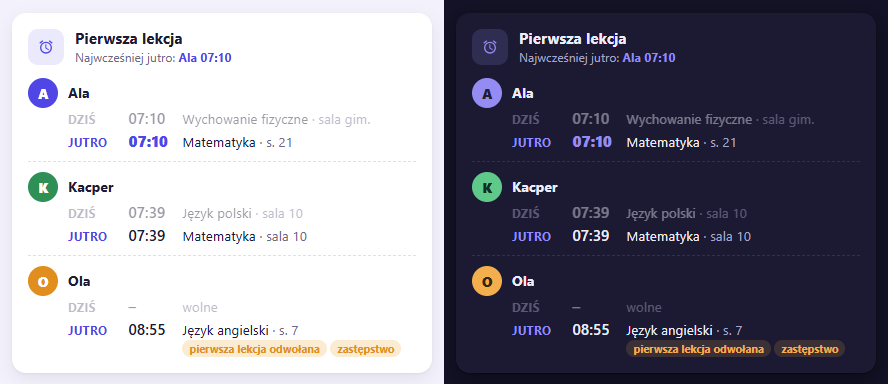
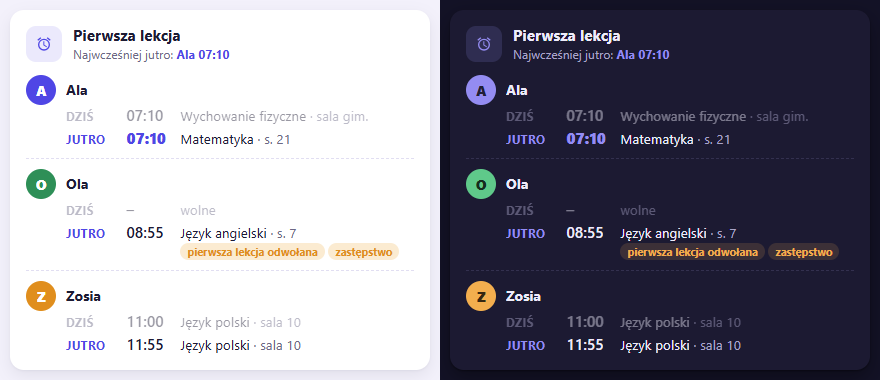
Remove real people's data from the dev harness and screenshots
The harness had been seeded with a real account's data (the student's
name, the school, teachers and real messages). All replaced with made-up
data; screenshots regenerated from it.

diff --git a/dev/index.html b/dev/index.html
@@ -336,17 +336,17 @@
     addEntity("sensor.weekly_summary", "weekly_summary", {
       status: "good",
       sections: {
-        grades: { status: "good", text: "W tym tygodniu doszły 4 oceny: 6 z geografii (sprawdzian, waga 3), 5 z biologii, 4- z chemii (kartkówka) i plus z edukacji zdrowotnej. Średnia ogólna wzrosła z 4,52 do 4,61, głównie dzięki szóstce z geografii.\n\nChemia (4,88) to jedyny przedmiot, w którym ostatnia ocena wypadła poniżej średniej. Przy jednej kartkówce to jeszcze nie trend, ale warto ją obserwować." },
-        attendance: { status: "caution", text: "34 z 35 lekcji obecny. Jedna nieobecność we wtorek na religii, jeszcze nieusprawiedliwiona. Spóźnień brak." },
+        grades: { status: "good", text: "W tym tygodniu doszły 4 oceny: 5 z historii (sprawdzian, waga 3), 4 z biologii, 3+ z fizyki (kartkówka) i plus z plastyki. Średnia ogólna wzrosła z 4,30 do 4,38, głównie dzięki piątce z historii.\n\nFizyka (4,10) to jedyny przedmiot, w którym ostatnia ocena wypadła poniżej średniej. Przy jednej kartkówce to jeszcze nie trend, ale warto ją obserwować." },
+        attendance: { status: "caution", text: "33 z 34 lekcji obecna. Jedna nieobecność w czwartek na muzyce, jeszcze nieusprawiedliwiona. Spóźnień brak." },
         behaviour: { status: "good", text: "Brak nowych uwag w tym tygodniu. 26 dni bez negatywnej uwagi i seria 5 ocen co najmniej dobrych z rzędu." },
-        next_week: { status: "ok", text: "Wtorek 7.10: sprawdzian z matematyki (działy 1-2). Środa 8.10: zadanie z chemii (s. 34). Czwartek 9.10: kartkówka z angielskiego. W piątek zastępstwo na WF." },
+        next_week: { status: "ok", text: "Wtorek 7.10: sprawdzian z matematyki (działy 1-2). Środa 8.10: zadanie z fizyki (s. 21). Czwartek 9.10: kartkówka z angielskiego. W piątek zastępstwo na WF." },
       },
       advice: [
-        "Usprawiedliwić nieobecność z wtorku (religia).",
+        "Usprawiedliwić nieobecność z czwartku (muzyka).",
         "W niedzielę przejrzeć działy 1-2 z matematyki przed wtorkiem.",
-        "Zapytać o kartkówkę z chemii: nauczycielka wskazała błędy w zapisie wzorów.",
+        "Zapytać o kartkówkę z fizyki: nauczyciel wskazał błędy w jednostkach.",
       ],
-      warning: "Nieobecność z wtorku (religia) jest wciąż nieusprawiedliwiona.",
+      warning: "Nieobecność z czwartku (muzyka) jest wciąż nieusprawiedliwiona.",
       summary: null,
       week_from: iso(new Date(today.getTime() - 6 * 86400000)),
       week_to: iso(today),
@@ -356,7 +356,7 @@
       generating: false,
       paused: false,
       error: null,
-    }, "Mocny tydzień z przyrody, chemia do podciągnięcia przed sprawdzianem z matematyki.");
+    }, "Mocny tydzień z historii, fizyka do podciągnięcia przed sprawdzianem z matematyki.");
     entities["button.weekly_summary_generate"] = { entity_id: "button.weekly_summary_generate", device_id: DEVICE_ID, platform: "librus_synergia", translation_key: "weekly_summary_generate" };
     states["button.weekly_summary_generate"] = { entity_id: "button.weekly_summary_generate", state: lastPolled, attributes: {} };
     addEntity("sensor.unread_announcements", "unread_announcements", {
@@ -373,8 +373,8 @@
     addEntity("sensor.unread_messages", "unread_messages", {
       mailbox_breakdown: { inbox: 1, notes: 0, alerts: 1, substitutions: 1, absences: 0, justifications: 1, trash: 0 },
       recent: [
-        { id: "186536", mailbox: "inbox", sender: "Marciszak Amelia", topic: "Zebranie z rodzicami", content: "Dzień dobry, serdecznie zapraszam na zebranie, które odbędzie się 9 września (środa)…", date: iso(new Date(today.getTime() - 2 * 86400000)), unread: true, has_attachment: false },
-        { id: "428360", mailbox: "inbox", sender: "Siwik Anna", topic: "Materiały informacyjne dotyczące najistotniejszych założeń Kompasu Jutra", content: "Szanowni Państwo, na prośbę Pani Minister Barbary Nowackiej przesyłam w załączeniu prezentację…", date: iso(new Date(today.getTime() - 3 * 86400000)), unread: false, has_attachment: true },
+        { id: "100001", mailbox: "inbox", sender: "Nowak Anna", topic: "Zebranie z rodzicami", content: "Dzień dobry, zapraszam na zebranie z rodzicami w przyszłą środę o 17:00…", date: iso(new Date(today.getTime() - 2 * 86400000)), unread: true, has_attachment: false },
+        { id: "100002", mailbox: "inbox", sender: "Zielińska Maria", topic: "Informacja dla rodziców", content: "Szanowni Państwo, w załączeniu przesyłam informację o organizacji roku szkolnego…", date: iso(new Date(today.getTime() - 3 * 86400000)), unread: false, has_attachment: true },
       ],
       substitutions_recent: [
         { id: "9001", mailbox: "substitutions", sender: "System zastępstw", topic: "Zmiana w planie lekcji", content: "Jutro (7 wrz) lekcja fizyki o 11:40 zostanie odwołana z powodu nieobecności nauczyciela…", date: iso(new Date(today.getTime() - 1 * 86400000)), unread: true, has_attachment: false },
@@ -402,26 +402,26 @@
       bellSlots.push({ start: s, end: e });
     }
     addEntity("sensor.school", "school", {
-      town: "Wrocław", street: "ul. Kłodzka", head_teacher: "Edyta Krajewska", email: "sekretariat@zsp21.wroc.pl",
+      town: "Przykładowo", street: "ul. Szkolna", head_teacher: "Ewa Wiśniewska", email: "sekretariat@example.edu.pl",
       bell_schedule: bellSchedule,
       // subject_teachers requires ha-librus-synergia 0.6.0+ - one subject
       // (Język niemiecki) has two teachers to demo the split-group case.
       subject_teachers: {
-        "Matematyka": ["Weronika Michałowska"],
-        "Język polski": ["Eliza Orman"],
+        "Matematyka": ["Joanna Lewandowska"],
+        "Język polski": ["Katarzyna Wójcik"],
         "Biologia": ["K. Nowak"],
-        "Historia": ["Justyna Bartczak"],
-        "Wychowanie fizyczne": ["Marek Włodarczyk"],
-        "Język niemiecki": ["Aneta Kędzierska", "Michalina Dyduch"],
+        "Historia": ["Agnieszka Kamińska"],
+        "Wychowanie fizyczne": ["Piotr Mazur"],
+        "Język niemiecki": ["Magdalena Zając", "Monika Szymańska"],
       },
-    }, "Zespół Szkolno-Przedszkolny nr 21");
+    }, "Szkoła Podstawowa nr 1");
     addEntity("sensor.current_lesson", "current_lesson", {
       lesson_no: 3, start: bellSchedule[2].start, end: bellSchedule[2].end, minutes_left: 20,
       teacher: "K. Nowak", classroom: "sala 15", is_substitution: false,
     }, "Biologia");
     addEntity("sensor.next_lesson", "next_lesson", {
       lesson_no: 4, start: bellSchedule[3].start, end: bellSchedule[3].end, minutes_until: 40,
-      date: iso(today), teacher: "A. Marciszak", classroom: "sala 22", is_substitution: false,
+      date: iso(today), teacher: "A. Nowak", classroom: "sala 22", is_substitution: false,
     }, "Język polski");
     addEntity("sensor.next_exam", "next_exam", {
       days_until: Math.round((tomorrowDay.getTime() - today.getTime()) / 86400000),
@@ -432,7 +432,7 @@
       ],
     }, tomorrowIso);
     addEntity("sensor.school_class", "school_class", {
-      homeroom_teacher: "Amelia Marciszak",
+      homeroom_teacher: "Anna Nowak",
       student_number: 25,
       school_year_start: iso(new Date(2026, 8, 1)),
       first_semester_end: iso(new Date(2027, 0, 31)),
@@ -441,7 +441,7 @@
     addEntity("sensor.homework_assignments", "homework_assignments", {
       recent: [
         { id: 101, topic: "Matematyka", text: "Zadania 1-5, strona 42 - ułamki dziesiętne.", due_date: tomorrowIso, date: iso(today), teacher: "Jan Kowalski" },
-        { id: 102, topic: "Język polski", text: "Wypracowanie: „Moje wakacje” (min. 150 słów).", due_date: iso(new Date(today.getTime() + 6 * 86400000)), date: iso(today), teacher: "Amelia Marciszak" },
+        { id: 102, topic: "Język polski", text: "Wypracowanie: „Moje wakacje” (min. 150 słów).", due_date: iso(new Date(today.getTime() + 6 * 86400000)), date: iso(today), teacher: "Anna Nowak" },
         { id: 103, topic: "Biologia", text: "Notatka o fotosyntezie.", due_date: iso(new Date(today.getTime() + 4 * 86400000)), date: iso(today), teacher: "K. Nowak" },
       ],
     }, 3);
@@ -617,7 +617,7 @@
       language: "pl",
       themes: { darkMode: false },
       devices: {
-        [DEVICE_ID]: { id: DEVICE_ID, name: "E-dziennik Kacper Zaniewicz", config_entries: ["dev1_entry"] },
+        [DEVICE_ID]: { id: DEVICE_ID, name: "E-dziennik Zosia Kowalska", config_entries: ["dev1_entry"] },
       },
       entities,
       states,
@@ -641,9 +641,8 @@
         }
         return [];
       },
-      // Mocks librus_synergia.get_message (see utils/services.ts) - real
-      // full-message content this integration actually fetched from a
-      // live account, so the click-to-expand demo shows authentic text.
+      // Mocks librus_synergia.get_message (see utils/services.ts) with
+      // made-up messages - never put real people's data in this file.
       // Mocks the AI summary card's "Generate now" (button.press).
       callService: async (domain, service, data) => {
         if (domain === "todo" && service === "update_item") {
@@ -666,19 +665,19 @@
         if (msg.type === "call_service" && msg.domain === "librus_synergia" && msg.service === "get_message") {
           await new Promise((resolve) => setTimeout(resolve, 500));
           const fullContentByKey = {
-            "inbox:186536": {
-              sender: "Marciszak Amelia",
+            "inbox:100001": {
+              sender: "Nowak Anna",
               topic: "Zebranie z rodzicami",
-              content: "Dzień dobry,\nserdecznie zapraszam na zebranie, które odbędzie się 9 września (środa) o godz. 17:00 w sali 213.\n\nPodczas spotkania:\n zostanie przedstawiony plan wychowawczy na rok szkolny 2026/2027,\n zostaną rozdane dokumenty do aktualizacji,\n omówimy najważniejsze kwestie organizacyjne i wychowawcze dotyczące nowego roku szkolnego.\n\nBędzie to również okazja do przekazania najważniejszych informacji dotyczących naszej klasy i wspólnego ustalenia zasad dobrej współpracy.\n\nLiczę na Państwa obecność.\nZ wyrazami szacunku,\nAmelia Marciszak",
+              content: "Dzień dobry,\nzapraszam na zebranie z rodzicami w przyszłą środę o godz. 17:00.\n\nOmówimy plan pracy na rok szkolny i sprawy organizacyjne klasy.\n\nZ wyrazami szacunku,\nAnna Nowak",
             },
-            // Real attachments field shape (integration 0.7.2+) - filename
-            // and content both from a live account (2026-09-17 probe).
-            "inbox:428360": {
-              sender: "Siwik Anna",
-              topic: "Materiały informacyjne dotyczące najistotniejszych założeń Kompasu Jutra",
-              content: "Szanowni Państwo,\nna prośbę Pani Minister Barbary Nowackiej przesyłam w załączeniu prezentację dotyczącą najistotniejszych założeń reformy Kompas Jutra.\nZachęcam do zapoznania się z materiałami.\n\nZ poważaniem,\n\n\n--------------------\nAnna Siwik\nwicedyrektorka Zespołu Szkolno-Przedszkolnego nr 21 we Wrocławiu",
+            // Attachments field shape (integration 0.7.2+); the filename and
+            // text are made up.
+            "inbox:100002": {
+              sender: "Zielińska Maria",
+              topic: "Informacja dla rodziców",
+              content: "Szanowni Państwo,\nw załączeniu przesyłam informację o organizacji roku szkolnego.\nZachęcam do zapoznania się z materiałami.\n\nZ poważaniem,\nMaria Zielińska",
               has_attachment: true,
-              attachments: [{ id: "7982536", filename: "PREZENTACJA-RODZICE-WRZESIEN-2026-6a8edfa4a02cd.pdf" }],
+              attachments: [{ id: "500001", filename: "informacja-dla-rodzicow.pdf" }],
             },
             "substitutions:9001": {
               sender: "System zastępstw",
@@ -697,7 +696,7 @@
             },
           };
           const key = `${msg.service_data.mailbox ?? "inbox"}:${msg.service_data.message_id}`;
-          const picked = fullContentByKey[key] ?? fullContentByKey["inbox:186536"];
+          const picked = fullContentByKey[key] ?? fullContentByKey["inbox:100001"];
           return {
             response: {
               id: msg.service_data.message_id,
@@ -785,10 +784,10 @@
     // hass object: with several devices, every single-student card rightly
     // asks which student to show, so the shared `hass` keeps just one.
     const FAMILY = [
-      { id: "dev_ala", name: "E-dziennik Ala Zaniewicz",
+      { id: "dev_ala", name: "E-dziennik Ala Nowicka",
         today: [["07:10", "07:55", "Wychowanie fizyczne", "sala gim."], ["08:00", "08:45", "Język polski", "s. 21"]],
         next: [["07:10", "07:55", "Matematyka", "s. 21"], ["08:00", "08:45", "Przyroda", "s. 3"]] },
-      { id: "dev_ola", name: "E-dziennik Ola Zaniewicz",
+      { id: "dev_ola", name: "E-dziennik Ola Wiśniewska",
         today: [],
         next: [["08:00", "08:45", "Matematyka (odwołane)", "s. 7"], ["08:55", "09:40", "Język angielski (zastępstwo)", "s. 7"]] },
     ];

diff --git a/src/librus-first-lesson-card.ts b/src/librus-first-lesson-card.ts
@@ -82,7 +82,7 @@ function summarize(events: LibrusCalendarEvent[] | undefined, day: string, now: 
   };
 }
 
-/** "E-dziennik Kacper Zaniewicz" (the integration's default title) -> "Kacper". */
+/** "E-dziennik Ola Kowalska" (the integration's default title) -> "Ola". */
 export function studentName(hass: LibrusHass, deviceId: string, override?: string): string {
   if (override?.trim()) return override.trim();
   const device = hass.devices?.[deviceId];
